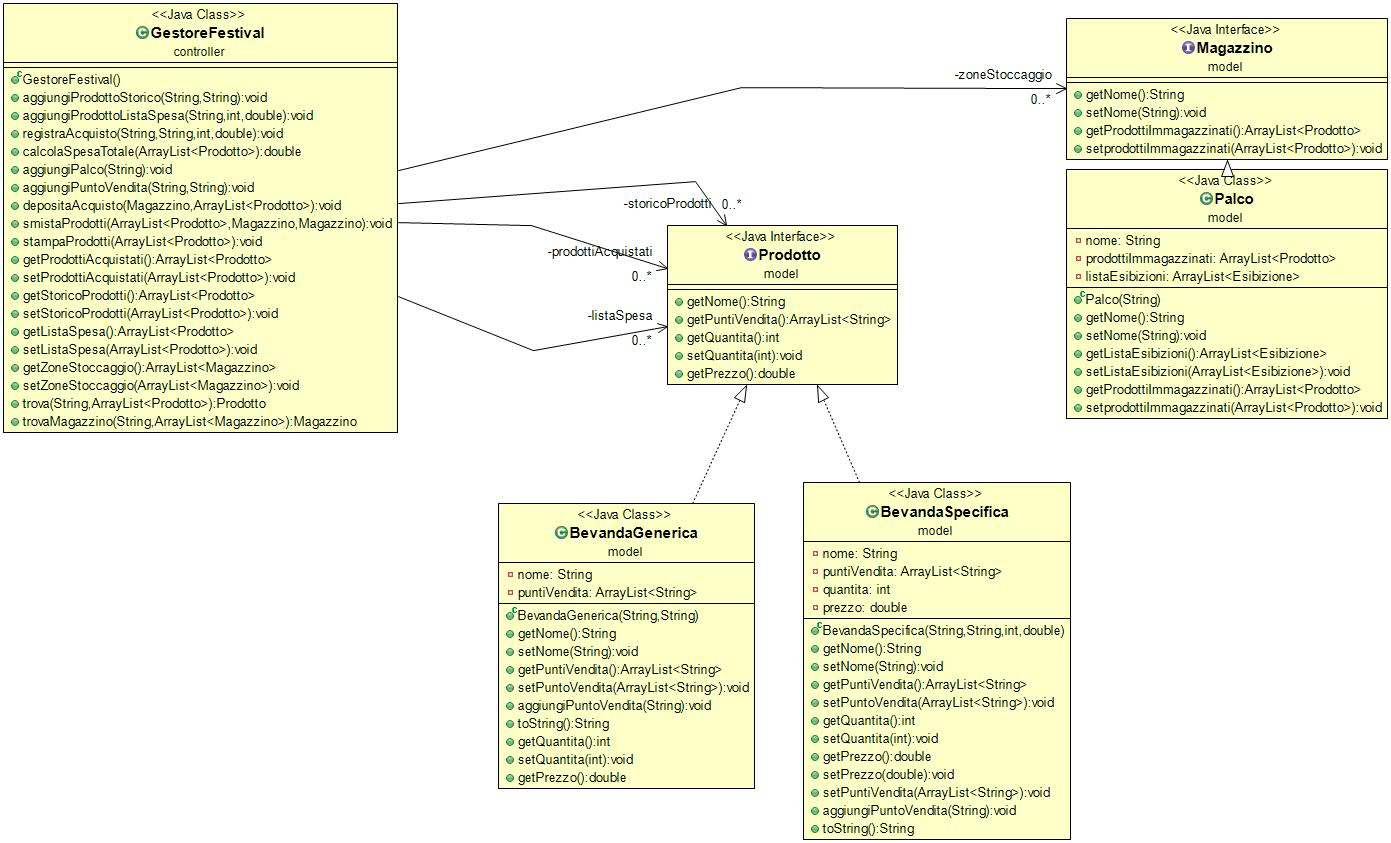
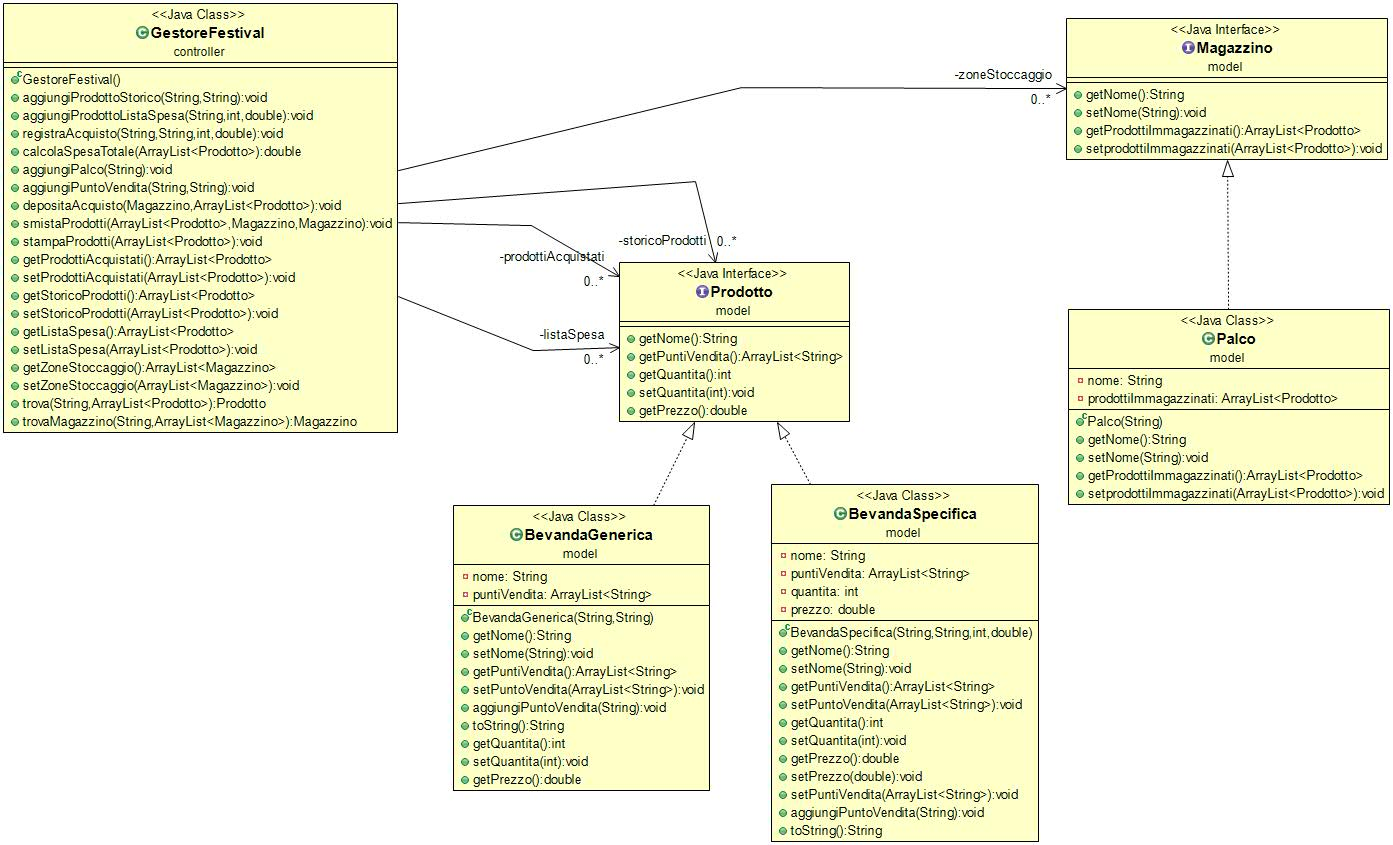
modifica palco

diff --git a/src/model/Palco.java b/src/model/Palco.java
@@ -5,7 +5,6 @@ import java.util.ArrayList;
 public class Palco implements Magazzino {
 	private String nome;
 	private ArrayList<Prodotto> prodottiImmagazzinati = new ArrayList<Prodotto>();
-	private ArrayList<Esibizione> listaEsibizioni = new ArrayList<Esibizione>();
 	
 	public Palco(String nome) {
 		super();
@@ -18,14 +17,6 @@ public class Palco implements Magazzino {
 
 	public void setNome(String nome) {
 		this.nome = nome;
-	}
-
-	public ArrayList<Esibizione> getListaEsibizioni() {
-		return listaEsibizioni;
-	}
-
-	public void setListaEsibizioni(ArrayList<Esibizione> listaEsibizioni) {
-		this.listaEsibizioni = listaEsibizioni;
 	}
 
 	public ArrayList<Prodotto> getProdottiImmagazzinati() {
